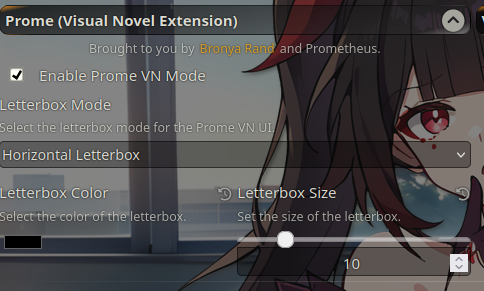
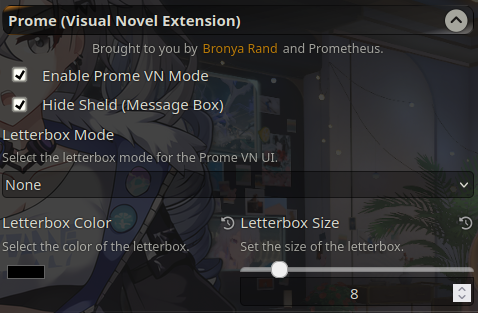
feat: hide sheld

diff --git a/index.js b/index.js
@@ -37,6 +37,7 @@ async function loadSettings() {
   $("#prome-letterbox-color-picker").attr('color', extension_settings[extensionName].letterboxColor);
   $("#prome-letterbox-size").val(extension_settings[extensionName].letterboxSize).trigger("input");
   $("#prome-letterbox-size-counter").val(extension_settings[extensionName].letterboxSize);
+  $("#prome-hide-sheld").prop("checked", extension_settings[extensionName].hideSheld).trigger("input");
 
   // ST Main Updates
   $("#waifuMode").prop("checked", extension_settings[extensionName].enableVN_UI).trigger("input");
@@ -45,6 +46,9 @@ async function loadSettings() {
   applyLetterboxMode();
   applyLetterboxColor();
   applyLetterboxSize();
+
+  // Apply Sheld Visibility
+  applySheldVisibility();
 }
 
 function prepareSlashCommands() {
@@ -152,8 +156,22 @@ function applyLetterboxMode() {
   console.debug(`[${extensionName}] Letterbox Settings Applied`);
 }
 
+function applySheldVisibility() {
+  if (extension_settings[extensionName].hideSheld === (null || undefined)) {
+    console.debug(`[${extensionName}] hideSheld returned null or undefined.`);
+  }
+
+  console.debug(`[${extensionName}] Hide Sheld?: ${extension_settings[extensionName].hideSheld}`);
+
+  $('#sheld').toggleClass('displayNone', extension_settings[extensionName].hideSheld);
+}
+
 function isLetterboxModeEnabled() {
   return Boolean(extension_settings[extensionName].letterboxMode !== VN_MODES.NONE);
+}
+
+function isSheldVisible() {
+  return Boolean(!extension_settings[extensionName].hideSheld);
 }
 
 // Selects the Letterbox Mode
@@ -174,6 +192,14 @@ function onVNUI_Click(event) {
   // Hijack ST Main's Waifu Mode
   $('body').toggleClass('waifuMode', power_user.waifuMode);
   $('#waifuMode').prop('checked', power_user.waifuMode);
+}
+
+// Toggles Sheld Visibility
+function onSheld_Click(event) {
+  const value = Boolean($(event.target).prop("checked"));
+  extension_settings[extensionName].hideSheld = value;
+  saveSettingsDebounced();
+  applySheldVisibility();
 }
 
 // This function is called when the extension is loaded
@@ -197,8 +223,13 @@ jQuery(async () => {
   $("#prome-letterbox-size").on("input", onLetterboxSize_Change);
   $("#prome-letterbox-size-restore").on("click", resetLetterBoxSize);
   $("#prome-letterbox-color-restore").on("click", resetLetterBoxColor);
+  $("#prome-hide-sheld").on("click", onSheld_Click);
 
   addLetterbox();
   loadSettings();
   prepareSlashCommands();
+
+  if (!isSheldVisible()) {
+    toastr.info("Sheld is currently hidden by the Prome VN Extension.", "Head to Extensions > Prome (Visual Novel Extension) and uncheck 'Hide Sheld (Message Box)' to show it again.");
+  }
 });

diff --git a/settings.html b/settings.html
@@ -22,6 +22,11 @@
                     <span data-i18n="Enable Prome VN Mode">Enable Prome VN Mode</span>
                 </label>
 
+                <label class="checkbox_label" for="prome-hide-sheld" title="Hide the message box (sheld) in the ST UI.">
+                    <input id="prome-hide-sheld" type="checkbox" />
+                    <span data-i18n="Hide Sheld (Message Box)">Hide Sheld (Message Box)</span>
+                </label>
+
                 <div class="prome_vn_block flex-container flexFlowColumn">
                     <label for="prome-letterbox-mode" data-i18n="Letterbox Mode">Letterbox Mode</label>
                     <small data-i18n="Select the letterbox mode for the Prome VN UI.">Select the letterbox mode for the Prome VN UI.</small>

diff --git a/README.md b/README.md
@@ -15,7 +15,13 @@ The Prome Visual Novel Extension is a extension for SillyTavern that remodernize
 
 1. Same features as the original VN mode.
 2. Letterbox Mode - Make your VN experience more 'cinematic.'
-   > This feature can be toggled to be horizontal, vertical or none at all. It can be size and color adjusted as needed.
+   > This feature can be toggled to be horizontal or vertical and can be adjusted in size and color as needed.
+
+3. Sheld Visibility - Hide the Sheld (Message Box) to capture the moment of a given chat.
+   <center>
+    <img src="./.github/sheld_hide.png"/>
+   </center>
+All features and it's settings can be found under 'Extensions > Prome (Visual Novel Extension)'.
    <center>
     <img src="./.github/settings.png"/>
    </center>
